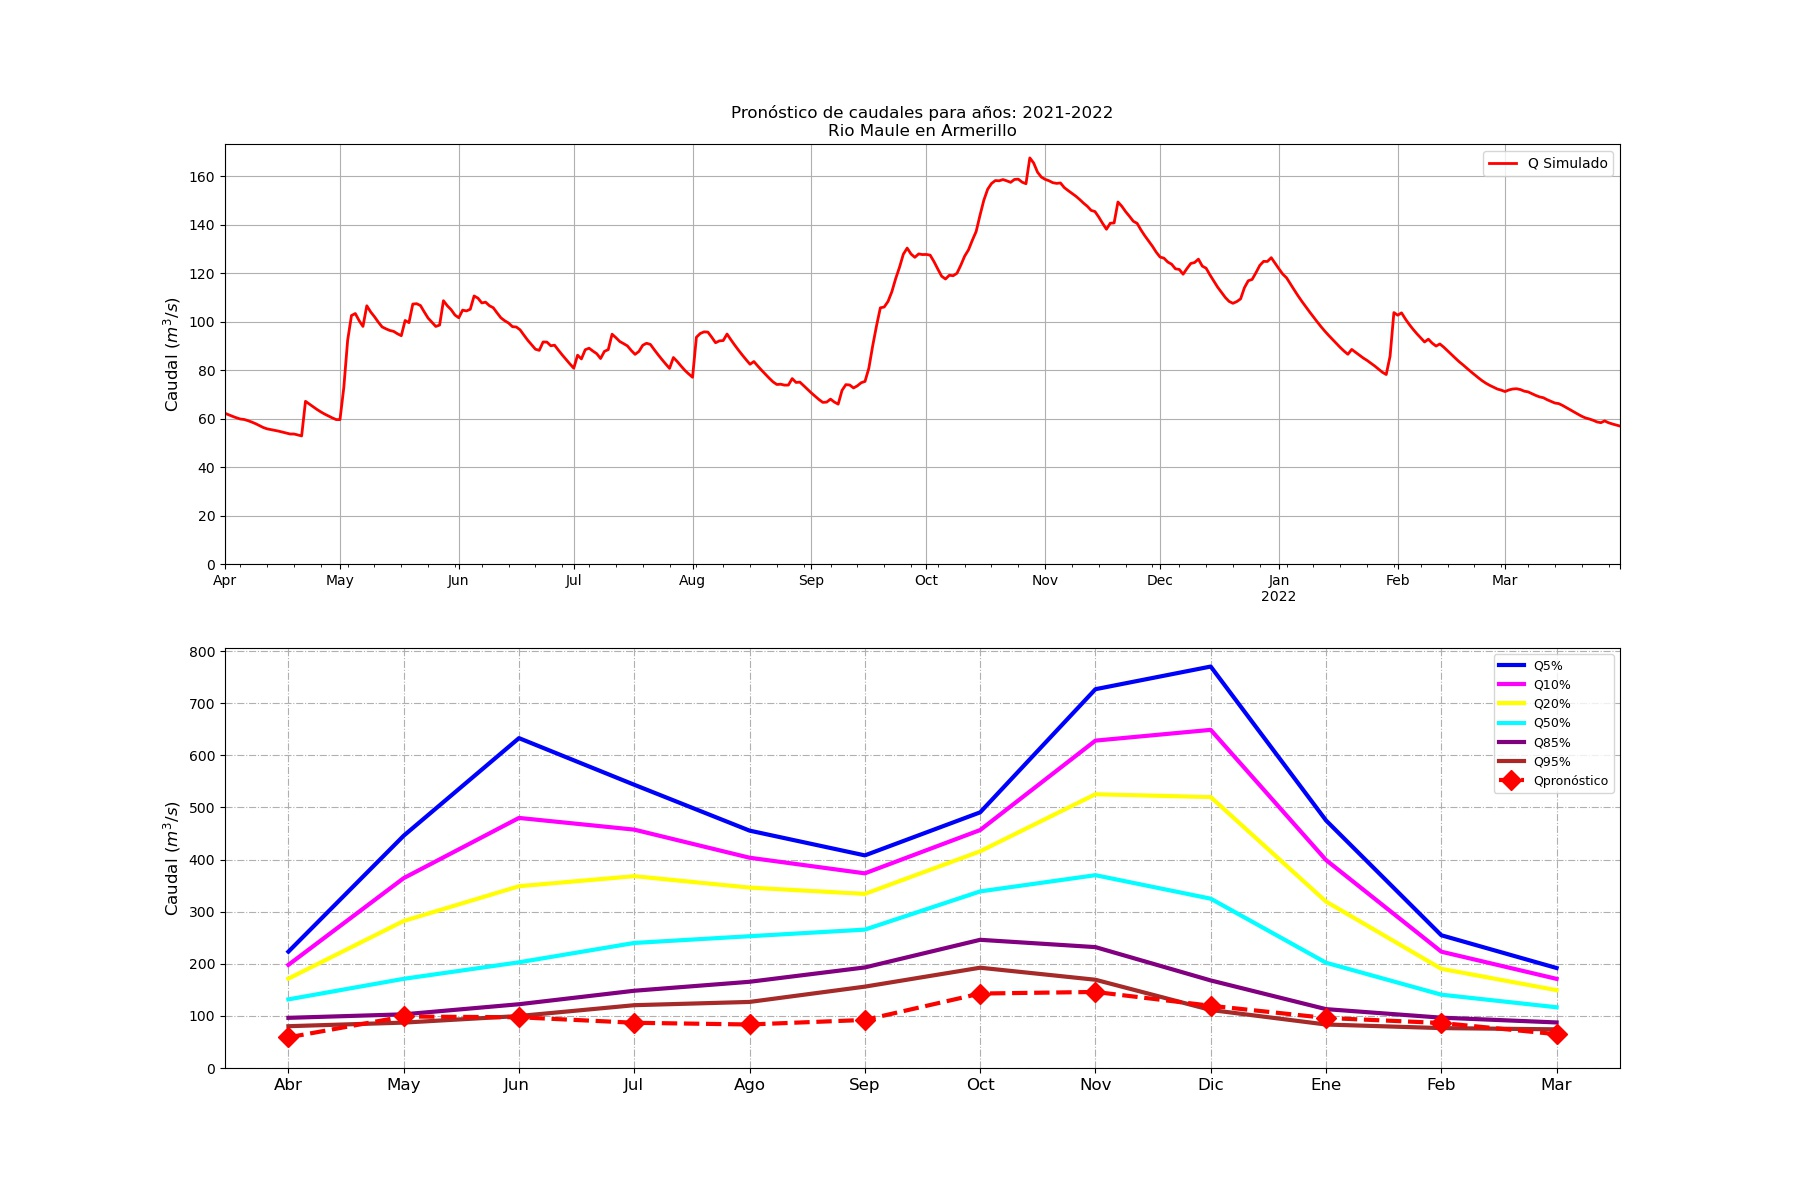
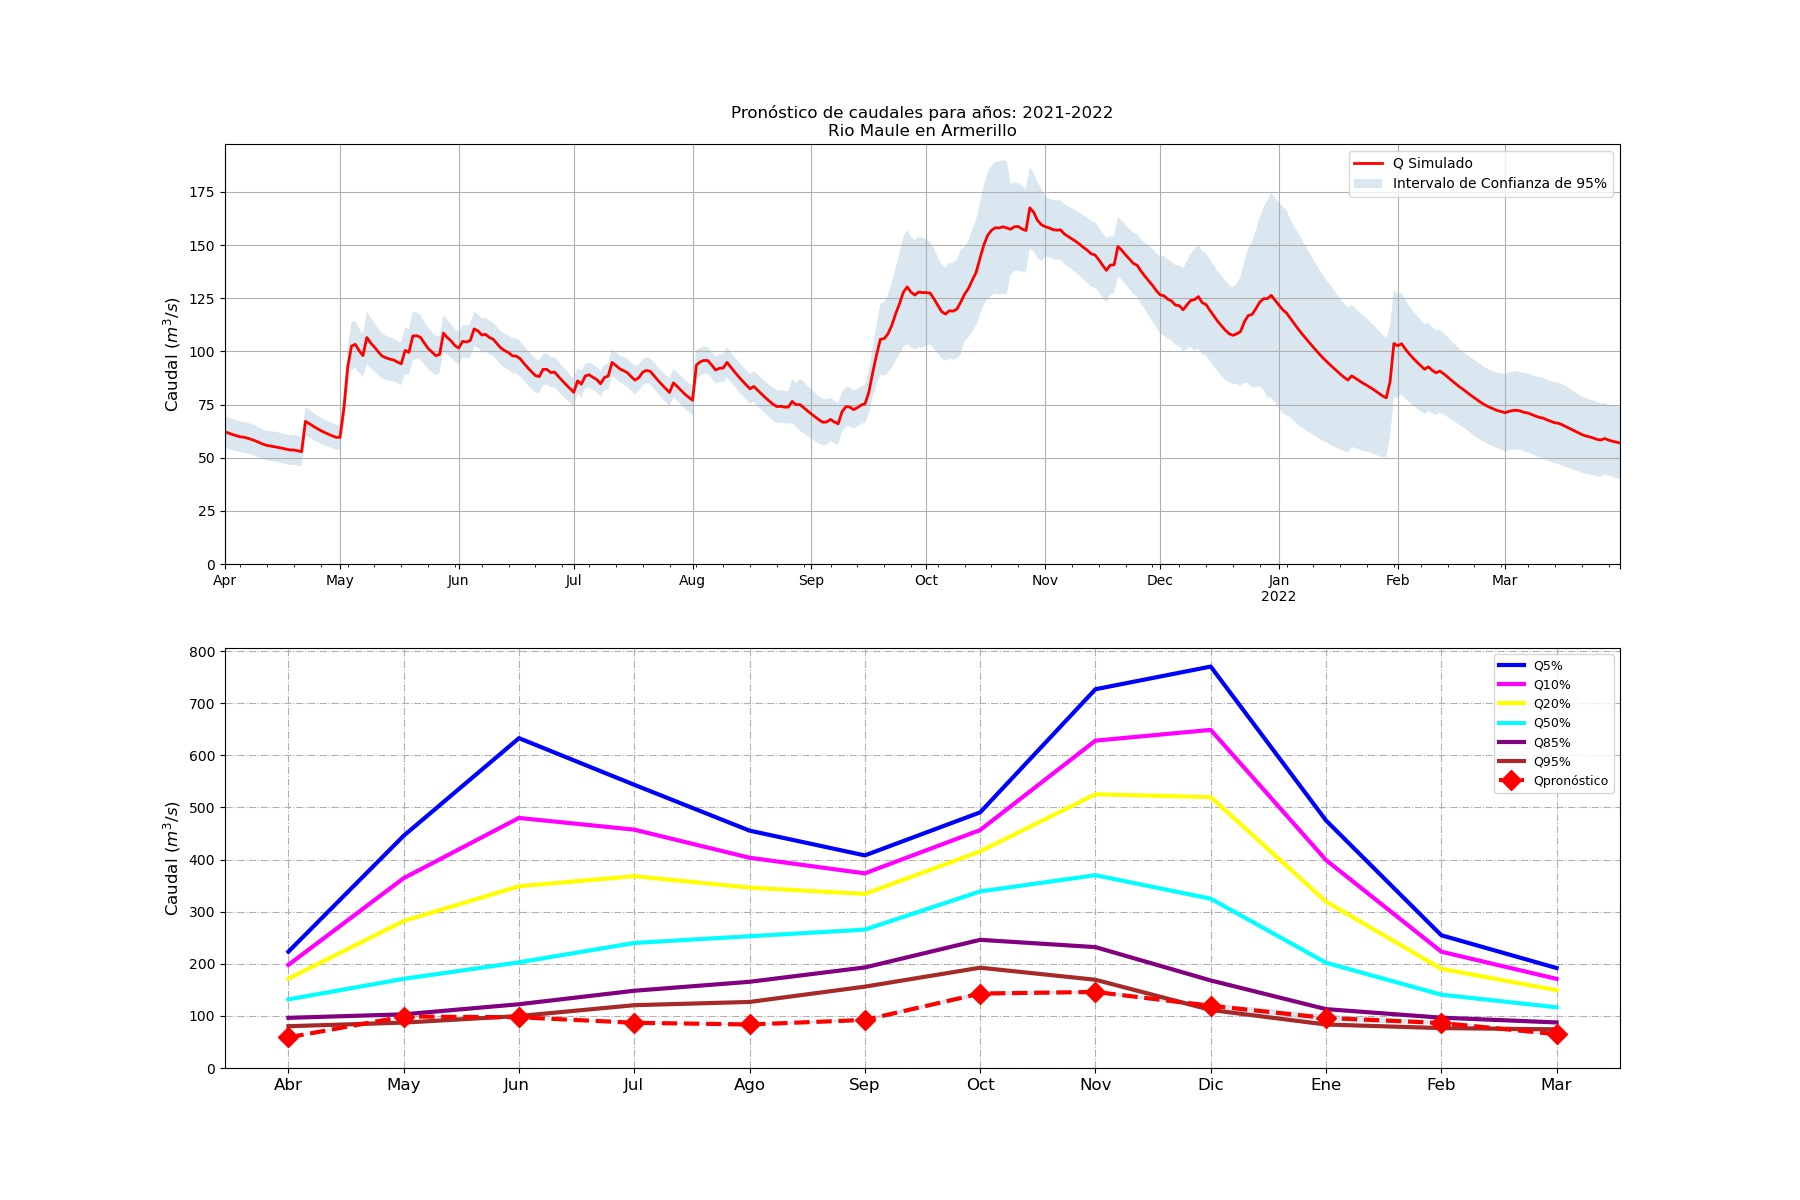
add: RMEA LU

diff --git a/interfaz_CC.py b/interfaz_CC.py
@@ -271,9 +271,10 @@ class Ui_MainWindow(object):
             # seleccionar los caudales simulados
             Qfor = Qfor.loc[(Qfor.index >= plot_ini) & (Qfor.index <= plot_fin)]
             idx = est_dev.index
-            # Z value del 99%
-            Qfor_ul = Qfor.loc[idx]+2*est_dev.values
-            Qfor_ll = Qfor.loc[idx]-2*est_dev.values           
+            # z value de intervalo de confianza 95%
+            z_value = 1.96
+            Qfor_ul = Qfor.loc[idx]+z_value*est_dev.values
+            Qfor_ll = Qfor.loc[idx]-z_value*est_dev.values           
             
             # fechas
             Days_xticks = [ x for x in pd.date_range(plot_ini,pd.to_datetime(plot_ini)+datetime.timedelta(days=len(Qfor)-1), freq = '1d').date]  
@@ -312,8 +313,9 @@ class Ui_MainWindow(object):
             
             # intervalos de Confianza
             idx = Q_mon.index
-            Qfor_ul_mon = Q_mon.loc[idx]+2*est_dev_mon.values
-            Qfor_ll_mon = Q_mon.loc[idx]-2*est_dev_mon.values
+
+            Qfor_ul_mon = Q_mon.loc[idx]+z_value*est_dev_mon.values
+            Qfor_ll_mon = Q_mon.loc[idx]-z_value*est_dev_mon.values
             
             # graficar la curva de variación estacional histórica
         
